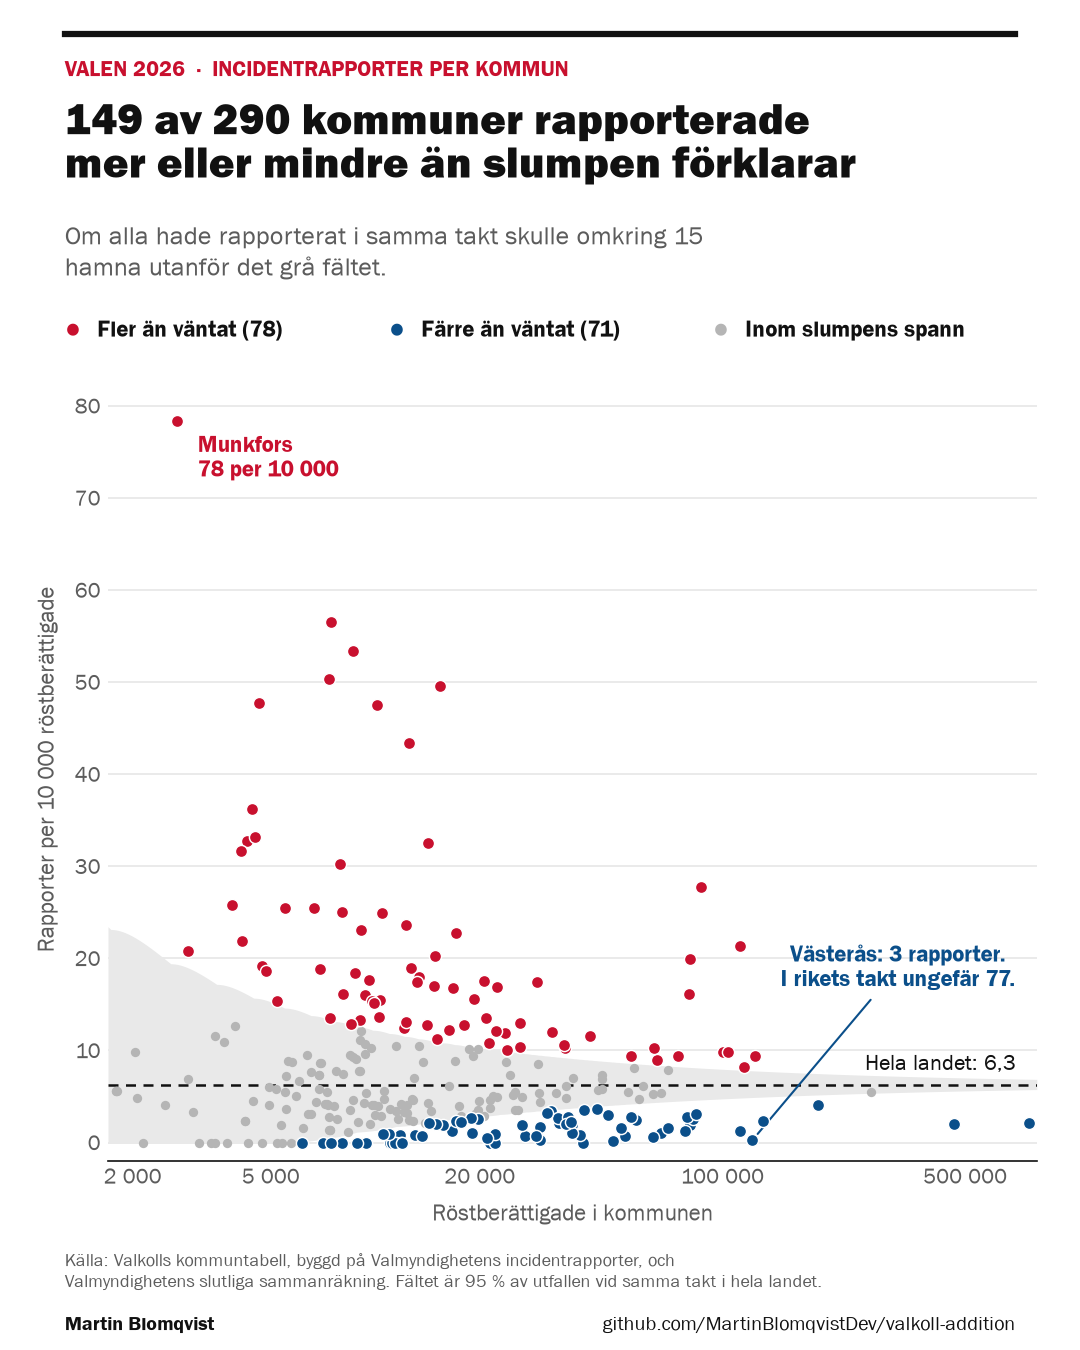
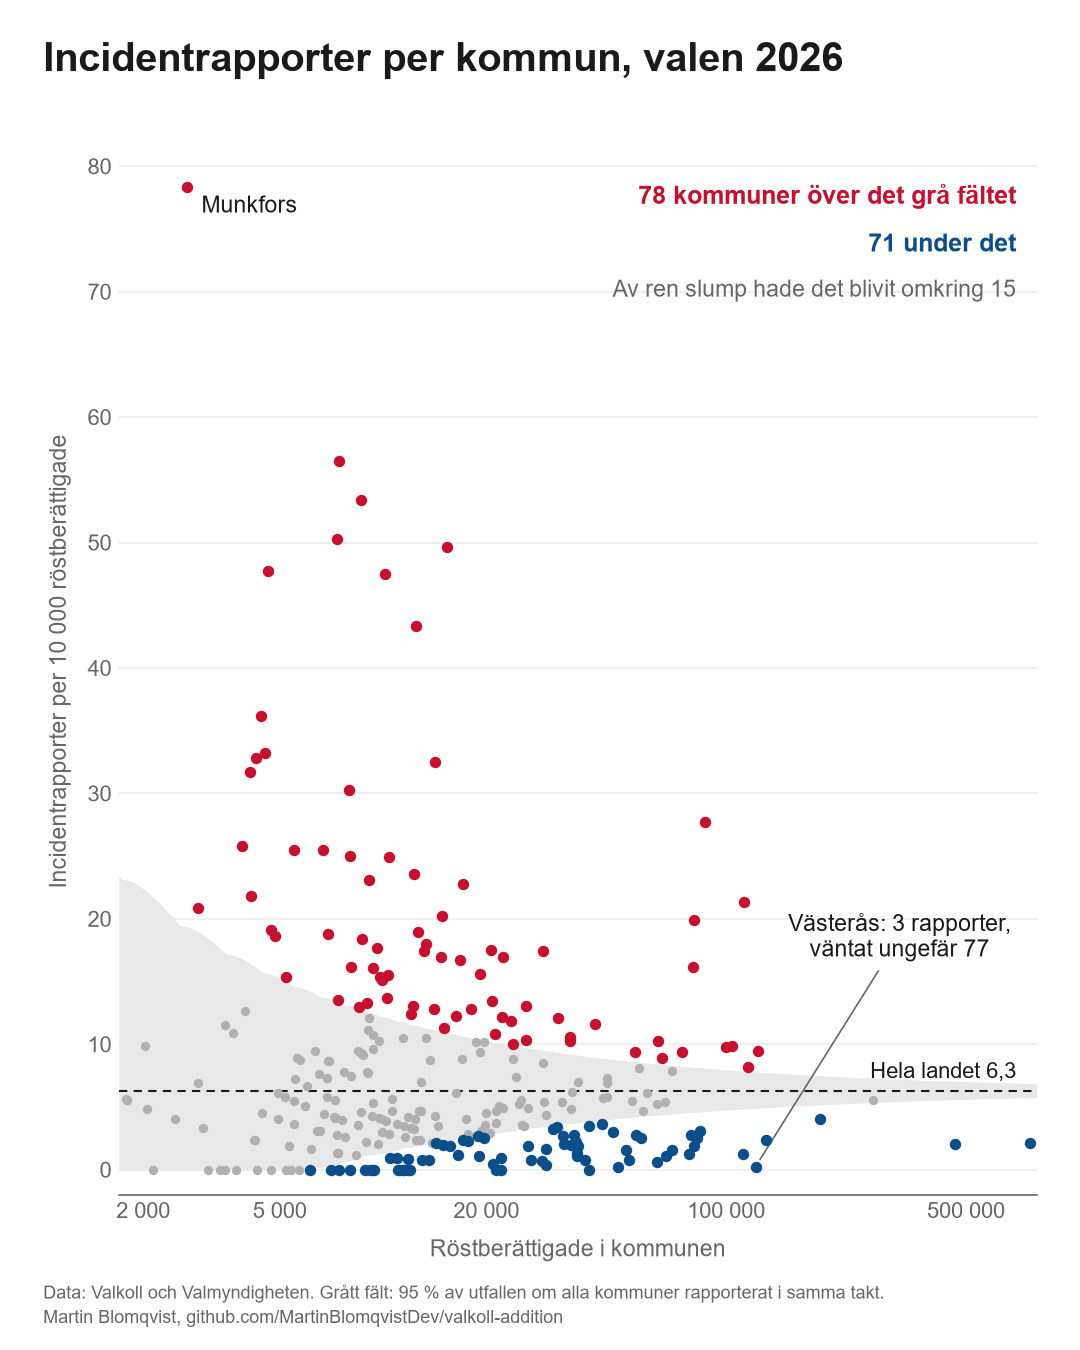
Plainer feed figure: one title, counts written into the chart

diff --git a/pipeline/13_feed_figure.py b/pipeline/13_feed_figure.py
@@ -1,4 +1,4 @@
-"""Draw the reporting-rate figure in a portrait format for a social media feed.
+"""Draw the reporting-rate figure as a plain portrait chart for a social media feed.
 
 Same data and band as step 12. Kommuner above the band and below it get separate colours,
 since reporting more and reporting less than expected are different findings. 1080 x 1350 px.
@@ -22,11 +22,9 @@ sys.path.insert(0, str(Path(__file__).resolve().parents[1] / "src"))
 from valkoll.config import load_config, resolve  # noqa: E402
 from valkoll.funnel import exact_limits, smooth_quantile, thousands  # noqa: E402
 
-HEAD = "Franklin Gothic Heavy"
-BODY = "Franklin Gothic Book"
-DEMI = "Franklin Gothic Demi"
-C = {"bg": "#ffffff", "fg": "#111111", "muted": "#5c5c5c", "grid": "#e6e6e6", "band": "#e9e9e9",
-     "inside": "#b5b5b5", "above": "#c8102e", "below": "#0b4f8a", "ref": "#111111"}
+FONT = "Arial"
+C = {"bg": "#ffffff", "fg": "#1a1a1a", "muted": "#666666", "grid": "#ececec", "band": "#e8e8e8",
+     "inside": "#b0b0b0", "above": "#c8102e", "below": "#0b4f8a", "ref": "#1a1a1a"}
 TICKS = [2_000, 5_000, 20_000, 100_000, 500_000]
 PER = 10_000
 
@@ -46,30 +44,34 @@ def draw(df: pd.DataFrame, national: float, out: Path) -> None:
     grid = np.logspace(np.log10(df.rostberattigade.min() * 0.95), np.log10(df.rostberattigade.max() * 1.05), 2000)
     blo, bhi = smooth_quantile(0.025, grid * national), smooth_quantile(0.975, grid * national) + 1
 
-    plt.rcParams.update({"font.family": BODY, "font.size": 12, "text.color": C["fg"],
+    plt.rcParams.update({"font.family": FONT, "font.size": 12, "text.color": C["fg"],
                          "xtick.color": C["muted"], "ytick.color": C["muted"], "axes.labelcolor": C["muted"]})
     fig = plt.figure(figsize=(7.2, 9), dpi=150, facecolor=C["bg"])
-    ax = fig.add_axes((0.1, 0.14, 0.86, 0.58), facecolor=C["bg"])
+    ax = fig.add_axes((0.11, 0.115, 0.85, 0.79), facecolor=C["bg"])
 
     ax.fill_between(grid, blo / grid * PER, bhi / grid * PER, color=C["band"], lw=0, zorder=1)
-    ax.axhline(national * PER, color=C["ref"], lw=1.2, ls=(0, (4, 3)), zorder=2)
+    ax.axhline(national * PER, color=C["ref"], lw=1, ls=(0, (4, 3)), zorder=2)
     inside = ~(above | below)
     ax.scatter(df.rostberattigade[inside], rate[inside], s=20, color=C["inside"], lw=0, zorder=3)
-    ax.scatter(df.rostberattigade[above], rate[above], s=34, color=C["above"], lw=0.7, edgecolor="white", zorder=4)
-    ax.scatter(df.rostberattigade[below], rate[below], s=34, color=C["below"], lw=0.7, edgecolor="white", zorder=4)
+    ax.scatter(df.rostberattigade[above], rate[above], s=30, color=C["above"], lw=0, zorder=4)
+    ax.scatter(df.rostberattigade[below], rate[below], s=30, color=C["below"], lw=0, zorder=4)
 
     def point(name: str) -> tuple[float, float]:
         r = df[df.namn == name].iloc[0]
         return r.rostberattigade, r.rapporter / r.rostberattigade * PER
 
     vas = df[df.namn == "Västerås"].iloc[0]
-    ax.annotate("Munkfors\n78 per 10 000", point("Munkfors"), xytext=(10, -6), textcoords="offset points",
-                fontsize=11, family=DEMI, va="top", color=C["above"])
-    ax.annotate(f"Västerås: {vas.rapporter} rapporter.\nI rikets takt ungefär {round(vas.rostberattigade * national)}.",
-                point("Västerås"), xytext=(320_000, 17), ha="center", fontsize=11, family=DEMI, color=C["below"],
-                arrowprops={"arrowstyle": "-", "color": C["below"], "lw": 1, "shrinkB": 4})
-    ax.annotate(f"Hela landet: {national * PER:.1f}".replace(".", ","), (700_000, national * PER),
-                xytext=(0, 7), textcoords="offset points", ha="right", fontsize=10.5, color=C["fg"])
+    ax.annotate("Munkfors", point("Munkfors"), xytext=(7, -4), textcoords="offset points", fontsize=11, va="top")
+    ax.annotate(f"Västerås: {vas.rapporter} rapporter,\nväntat ungefär {round(vas.rostberattigade * national)}",
+                point("Västerås"), xytext=(320_000, 17), ha="center", fontsize=11,
+                arrowprops={"arrowstyle": "-", "color": C["muted"], "lw": 0.8, "shrinkB": 4})
+    ax.annotate(f"Hela landet {national * PER:.1f}".replace(".", ","), (700_000, national * PER),
+                xytext=(0, 6), textcoords="offset points", ha="right", fontsize=10.5)
+    n_exp = int(len(df) * 0.05 + 0.5)
+    ax.text(700_000, 77, f"{int(above.sum())} kommuner över det grå fältet", color=C["above"], ha="right",
+            fontsize=12, weight="bold")
+    ax.text(700_000, 73.2, f"{int(below.sum())} under det", color=C["below"], ha="right", fontsize=12, weight="bold")
+    ax.text(700_000, 69.6, f"Av ren slump hade det blivit omkring {n_exp}", color=C["muted"], ha="right", fontsize=11)
 
     ax.set_xscale("log")
     ax.xaxis.set_major_locator(FixedLocator(TICKS))
@@ -78,33 +80,18 @@ def draw(df: pd.DataFrame, national: float, out: Path) -> None:
     ax.set_xlim(grid[0], grid[-1])
     ax.set_ylim(-2, max(rate) * 1.06)
     ax.set_xlabel("Röstberättigade i kommunen", fontsize=11, labelpad=8)
-    ax.set_ylabel("Rapporter per 10 000 röstberättigade", fontsize=11, labelpad=8)
+    ax.set_ylabel("Incidentrapporter per 10 000 röstberättigade", fontsize=11, labelpad=8)
     ax.grid(axis="y", color=C["grid"], lw=0.8)
     ax.set_axisbelow(True)
     for side in ("top", "right", "left"):
         ax.spines[side].set_visible(False)
-    ax.spines["bottom"].set_color(C["fg"])
+    ax.spines["bottom"].set_color(C["muted"])
     ax.tick_params(length=0, labelsize=10.5)
 
-    n_out, n_exp = int((above | below).sum()), int(len(df) * 0.05 + 0.5)
-    fig.add_artist(plt.Line2D([0.06, 0.94], [0.975, 0.975], color=C["fg"], lw=3))
-    fig.text(0.06, 0.955, "VALEN 2026  ·  INCIDENTRAPPORTER PER KOMMUN", family=DEMI, fontsize=10.5,
-             color=C["above"], va="top")
-    fig.text(0.06, 0.925, f"{n_out} av {len(df)} kommuner rapporterade\nmer eller mindre än slumpen förklarar",
-             family=HEAD, fontsize=21, va="top", linespacing=1.1)
-    fig.text(0.06, 0.835, f"Om alla hade rapporterat i samma takt skulle omkring {n_exp}\nhamna utanför det grå fältet.",
-             fontsize=12.5, color=C["muted"], va="top", linespacing=1.3)
-    for x, label, colour in ((0.06, f"Fler än väntat ({int(above.sum())})", C["above"]),
-                             (0.36, f"Färre än väntat ({int(below.sum())})", C["below"]),
-                             (0.66, "Inom slumpens spann", C["inside"])):
-        fig.text(x, 0.755, "●", color=colour, fontsize=13, va="center")
-        fig.text(x + 0.03, 0.755, label, family=DEMI, fontsize=11, va="center")
-
-    fig.text(0.06, 0.058, "Källa: Valkolls kommuntabell, byggd på Valmyndighetens incidentrapporter, och\n"
-             "Valmyndighetens slutliga sammanräkning. Fältet är 95 % av utfallen vid samma takt i hela landet.",
-             fontsize=8.5, color=C["muted"], va="center", linespacing=1.35)
-    fig.text(0.06, 0.012, "Martin Blomqvist", family=DEMI, fontsize=9.5, va="bottom")
-    fig.text(0.94, 0.012, "github.com/MartinBlomqvistDev/valkoll-addition", fontsize=9.5, ha="right", va="bottom")
+    fig.text(0.04, 0.955, "Incidentrapporter per kommun, valen 2026", fontsize=19, weight="bold", va="center")
+    fig.text(0.04, 0.02, "Data: Valkoll och Valmyndigheten. Grått fält: 95 % av utfallen om alla kommuner "
+             "rapporterat i samma takt.\nMartin Blomqvist, github.com/MartinBlomqvistDev/valkoll-addition",
+             fontsize=8.5, color=C["muted"], linespacing=1.5)
     fig.savefig(out, facecolor=C["bg"])
     plt.close(fig)
 
